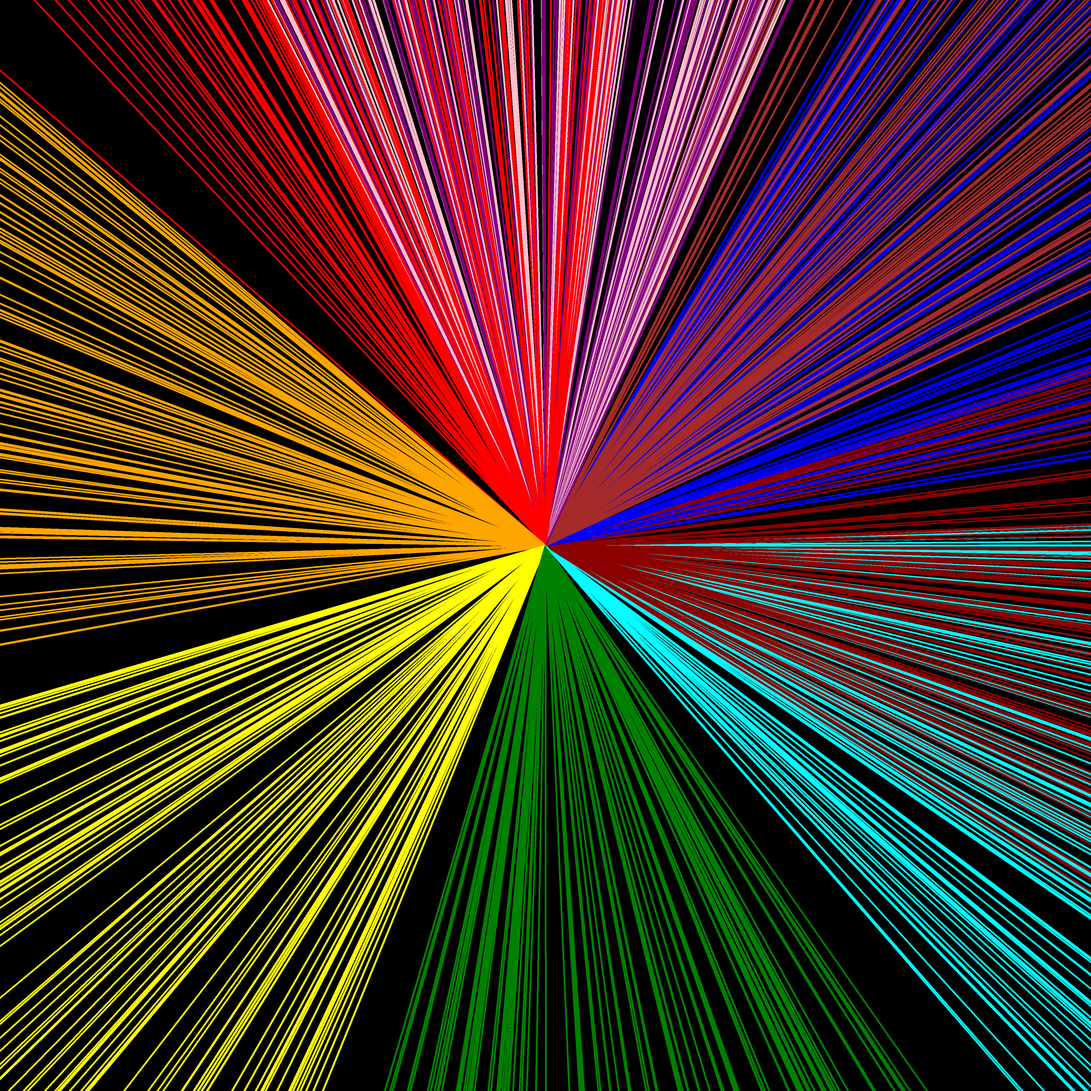
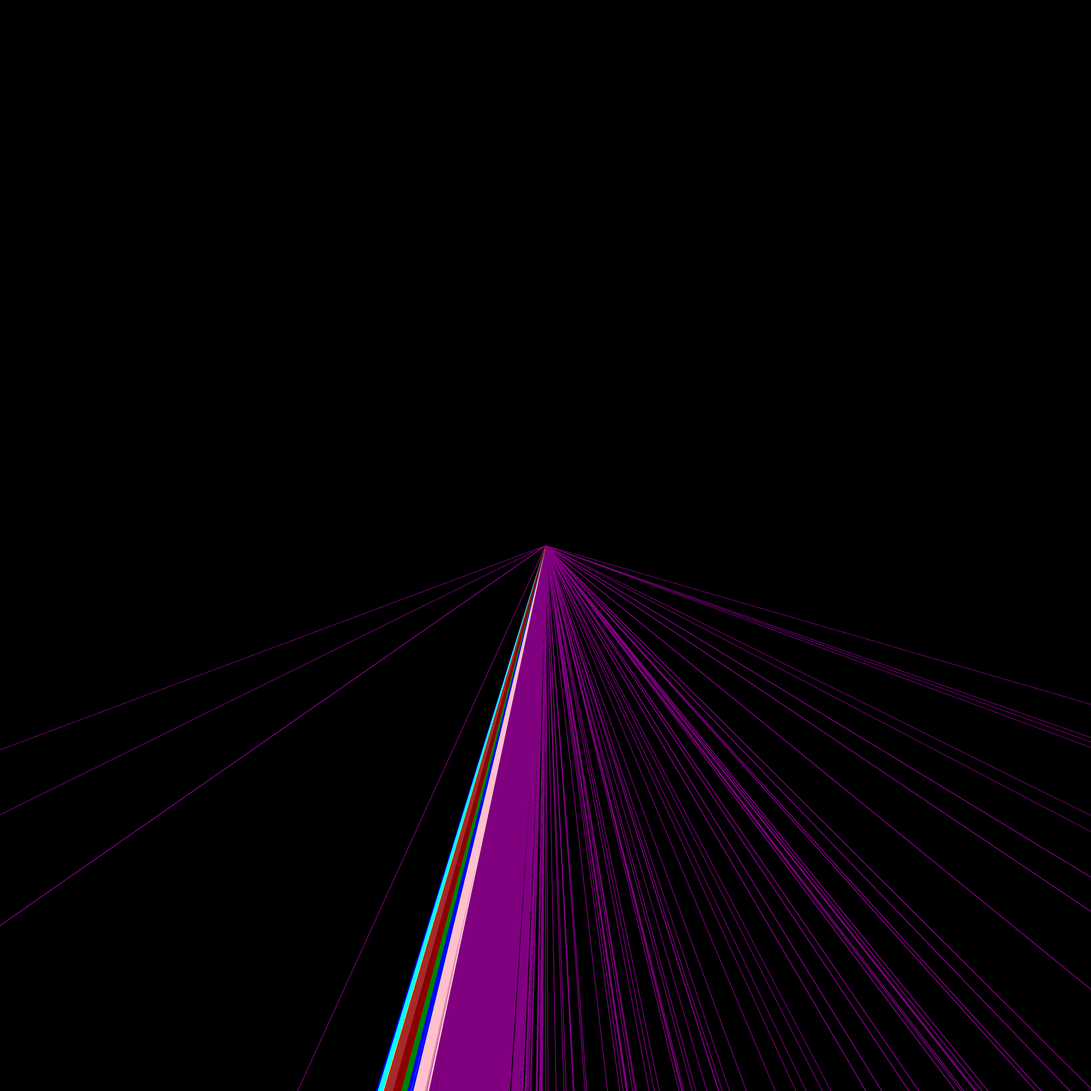
fix angle logic & add color swap mode

diff --git a/script.py b/script.py
@@ -11,27 +11,36 @@ COLORS = ['purple', 'pink', 'blue', 'cyan', 'green', 'yellow', 'orange', 'red', 
 
 def get_coords_for_line(x, y, angle, imwidth, imheight):
 	"""This function helps us figure where to draw the lines"""
-	x_length = (x-imwidth) / math.cos(angle+180)
-	y_length = (y-imheight) / math.sin(angle+180)
+	angle = (360 - angle) or 360
+
+	x_length = (x-imwidth) / math.cos(angle)
+	y_length = (y-imheight) / math.sin(angle)
 	length = max(abs(x_length), abs(y_length))
-	endx = x + length * math.cos(math.radians(angle+180))
-	endy = y + length * math.sin(math.radians(angle+180))
+	endx = x + length * math.cos(math.radians(angle))
+	endy = y + length * math.sin(math.radians(angle))
 	return endx, endy
 
 def render(img, digits, constant, method = 'twotone'):
 	x, y = img.width // 2, img.height //2
 	draw = ImageDraw.Draw(img)
+	sum_value = 0
 
 	for i in range(digits):
 		n = int(constant[i])
+		sum_value += n 
+		rad = sum_value / (i + 1) # Calculate the running average for the i-th digit of pi
+
 		if method == 'all':
 			color = COLORS[n]
 		elif method == 'twotone':
 			color = COLORS[n%2]
+		elif method == 'swap':
+			color = COLORS[i//1000]
 
-		a, b = get_coords_for_line(x, y, math.degrees(max(1, n) + float(f'0.{i}')) , 0, 0)
-		draw.line(((x, y), (a, b)), fill= color, width= 7)
+		a, b = get_coords_for_line(x, y, math.degrees(rad), 0, 0)
+		draw.line(((x, y), (a, b)), fill= color, width= 3)
 
+	print(sum_value/digits)
 	return img
 
 def save(img, fp, resize = False, resize_dimension = None):
@@ -40,12 +49,14 @@ def save(img, fp, resize = False, resize_dimension = None):
 	img.save(fp)
 	return img
 
+
 def main():
 	img = Image.new('RGB', (4096, 4096), color = 'black')
 
 	# SET method TO 'all' for all colors and 'twotone' for 2 colors.
+	# SET method TO 'swap' for swapping colors every 1k digits.
 	# Change digit to control the number of lines in image/digits in pi\
-	img = render(img, digits= 1000, constant= E, method= 'all')
+	img = render(img, digits= 10000, constant= PI, method= 'swap')
 	save(img, 'output.png')
 
 if __name__ == '__main__':
